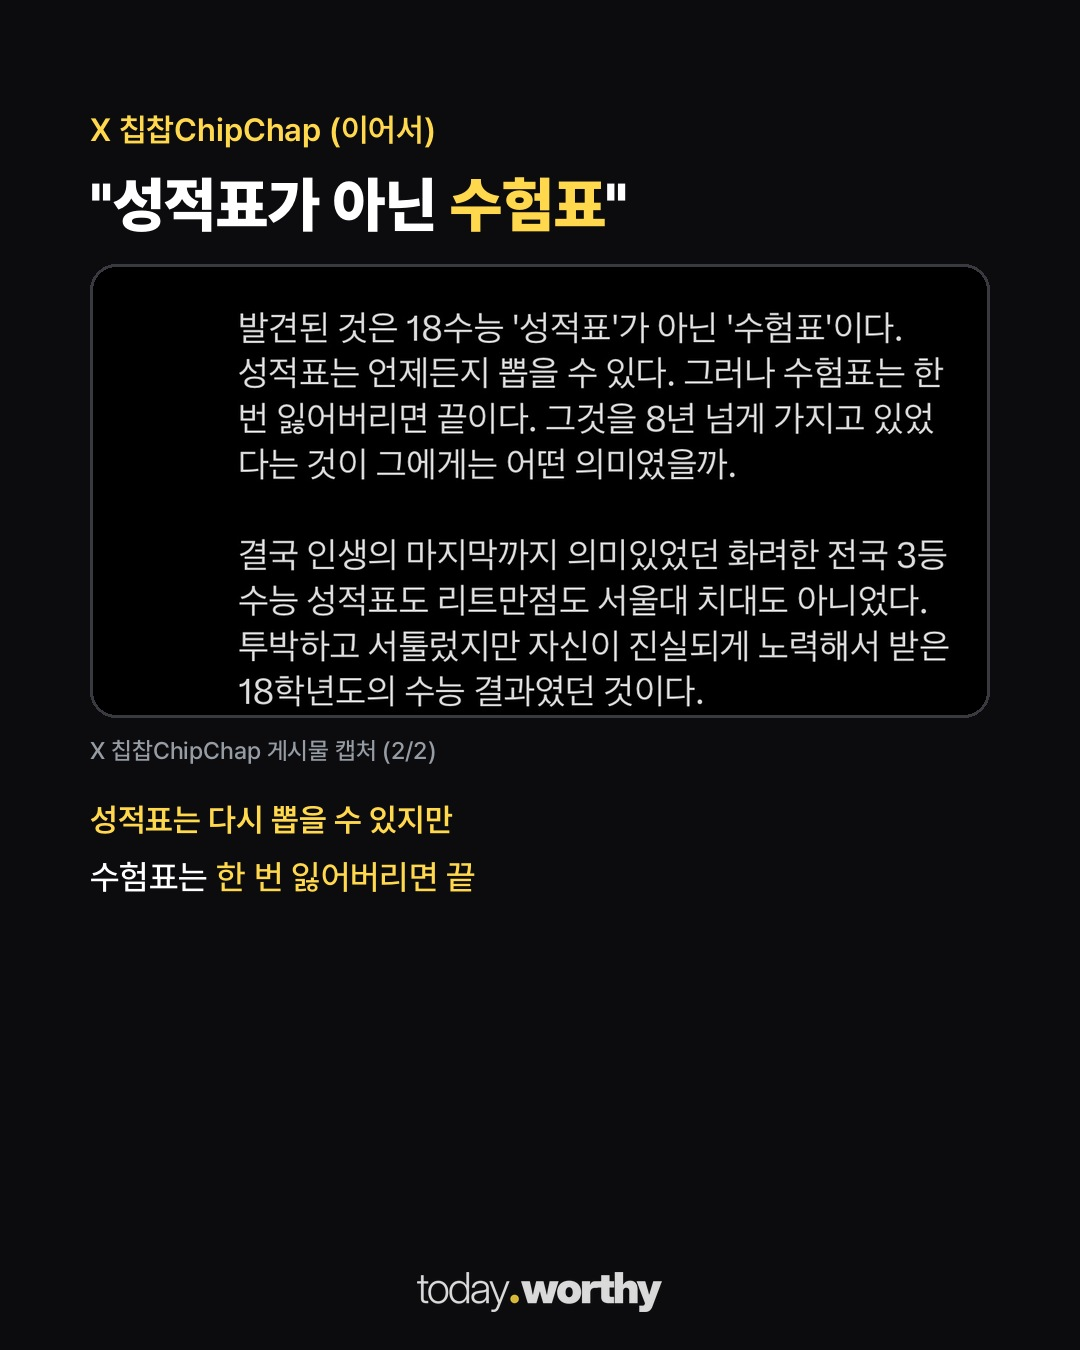
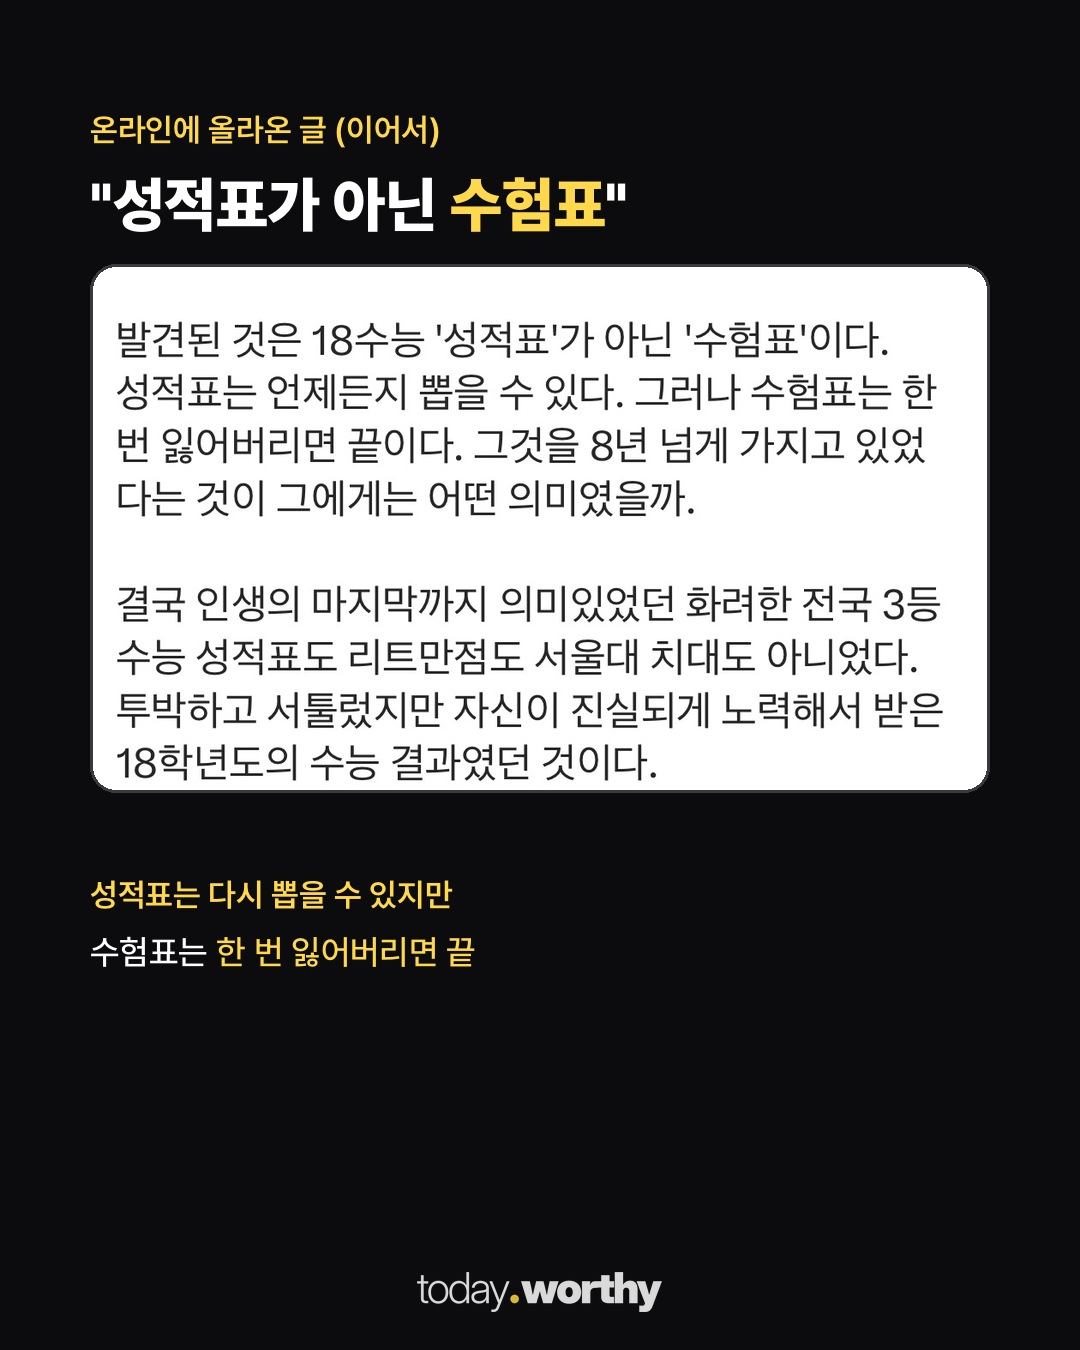
card: leetticket 트윗 2장으로 분할(게시 안 함)

diff --git a/media/20261119-leetticket/build_cards.py b/media/20261119-leetticket/build_cards.py
@@ -61,7 +61,11 @@ def panel(rows, h=640, gap=None):
 # 마지막 장: X 트윗 본문 캡처 한 장(이름·아이디 모자이크, 흰 바탕으로 반전, 카드에 출처 표기 없음 — 캡션 출처에만)
 spec = [
  {"out": str(O / "c09.jpg"), "sub": "온라인에 올라온 글", "title": "\"마지막까지 '의미 있었던' 건 무엇이었나\"",
-  "cap": str(O / "tw_all.jpg"), "cap_max_h": 920, "box_bg": [255, 255, 255], "caption": ""},
+  "cap": str(O / "tw_a.jpg"), "cap_max_h": 760, "box_bg": [255, 255, 255], "caption": "",
+  "label": "18수능은 2017년에 치른 시험", "lines": ["범죄 이전, '청년 이진우'의 시절"]},
+ {"out": str(O / "c10.jpg"), "sub": "온라인에 올라온 글 (이어서)", "title": "\"성적표가 아닌 '수험표'\"",
+  "cap": str(O / "tw_b.jpg"), "cap_max_h": 700, "box_bg": [255, 255, 255], "caption": "",
+  "label": "성적표는 다시 뽑을 수 있지만", "lines": ["수험표는 '한 번 잃어버리면 끝'"]},
 ]
 (O / "spec_tw.json").write_text(json.dumps(spec, ensure_ascii=False))
 subprocess.run([sys.executable, str(R / "scripts/post_cap_card.py"), str(O / "spec_tw.json")], check=True)
